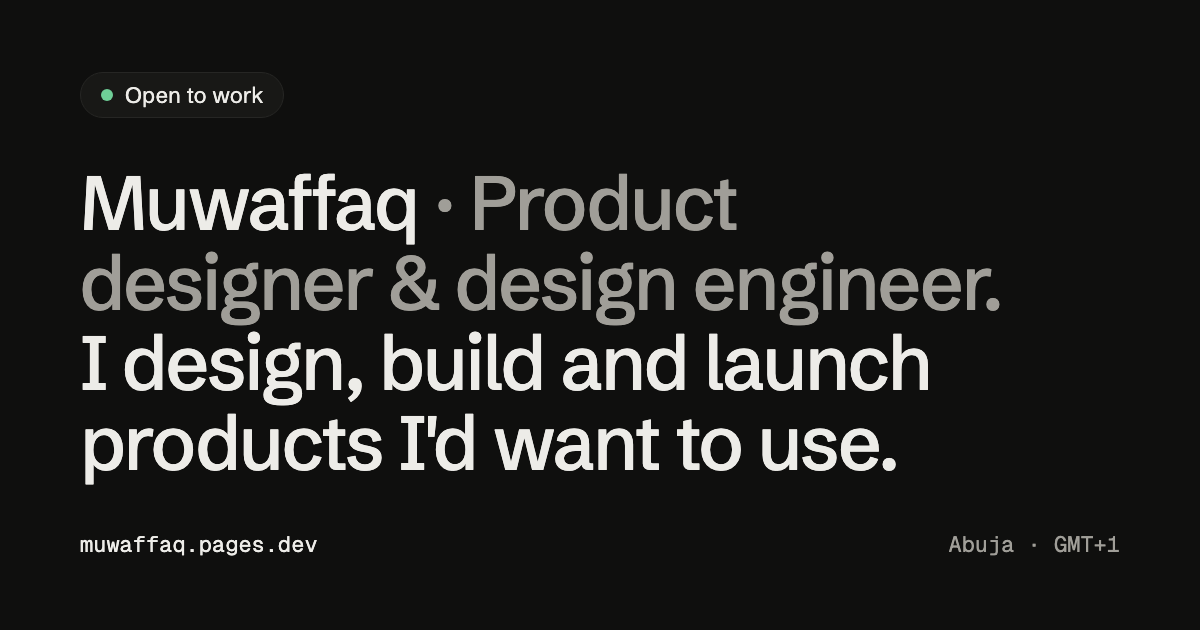
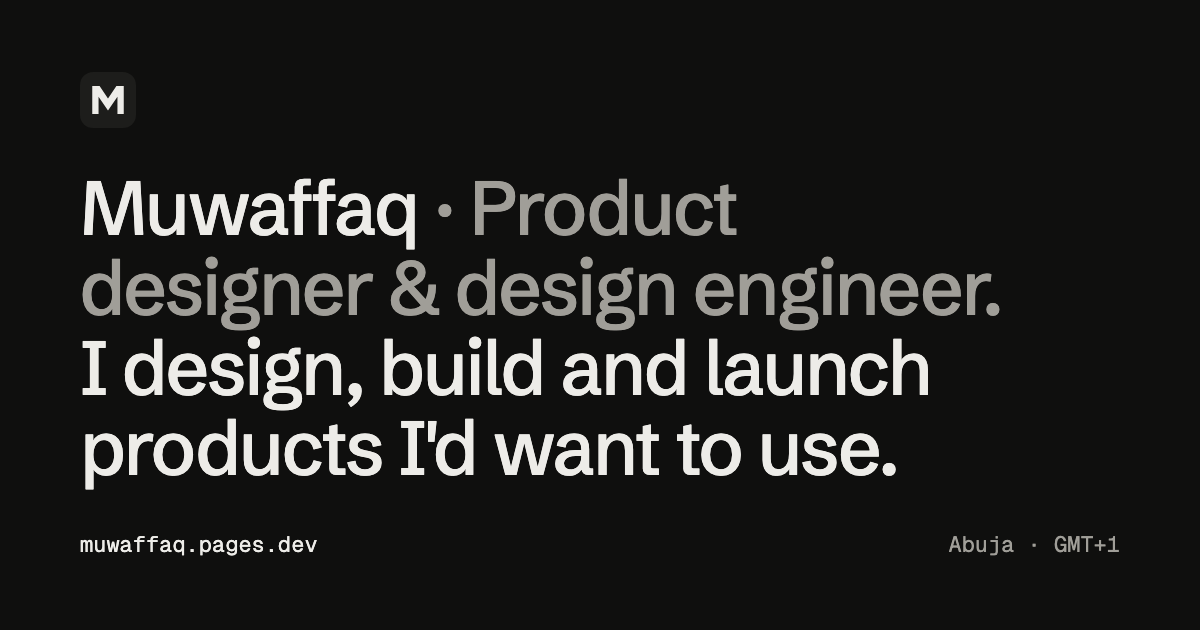
Open, not job-hunting: treeti explainer, new contact line, no 'Looking for', no 'Open to work' in the preview image

Changed region(s): [[0.0617, 0.2714, 0.8325, 0.754], [0.0617, 0.1206, 0.2158, 0.181]]

diff --git a/components/Contact.tsx b/components/Contact.tsx
@@ -61,10 +61,10 @@ export function ContactSection() {
       <div className="contact">
         <div className="contact-main">
           <p className="contact-title">Let&apos;s build something people want to use.</p>
-          <p className="d">{site.lookingFor}. {c.reply}</p>
+          <p className="d">Have a role, a project or just an idea? Send me a note. {c.reply}</p>
           {c.email && <CopyEmail email={c.email} />}
           <ContactLinks />
-          <p className="d contact-alt">Hiring me for a project instead? <a href="/services/">See how I work with businesses →</a></p>
+          <p className="d contact-alt">Working on a project? <a href="/services/">See how I work with businesses →</a></p>
         </div>
         <dl className="contact-meta">
           <div><dt>Based in</dt><dd>{site.location}, Nigeria</dd></div>
